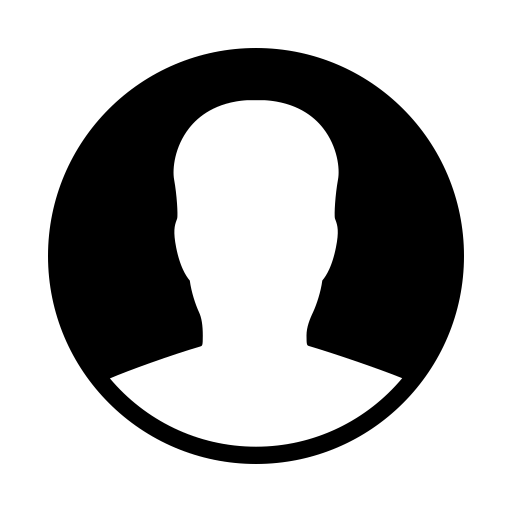
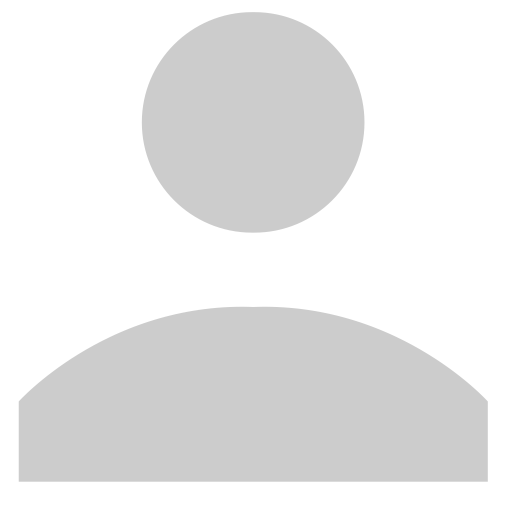
[ADD] upload image feature

diff --git a/client/src/pages/user/Profile.jsx b/client/src/pages/user/Profile.jsx
@@ -1,6 +1,8 @@
 import React, { useState } from "react";
-import HeaderImage from "../../images/header_bg_1.jpg";
-import UserProfileImage from "../../images/user_profile.png";
+import ImageUploader from "../../components/ImageUploadCustom";
+import CertDefaultImage from "../../images/cert-frame.png";
+import UserDefaultImage from "../../images/user_profile.png";
+
 
 const FormField = ({ id, label, placeholder, value, onChange }) => (
     <li className="py-3 flex justify-between items-center gap-10">
@@ -10,6 +12,8 @@ const FormField = ({ id, label, placeholder, value, onChange }) => (
 );
 
 const Profile = () => {
+    const [selectedPhoto, setSelectedPhoto] = useState(null);
+    const [urlImages, setUrlImages] = useState([]);
     const [formState, setFormState] = useState({
         fullname: '',
         gender: '',
@@ -27,39 +31,37 @@ const Profile = () => {
     }
     function handleSubmit(e) {
         e.preventDefault();
-        console.log(formState);
+        console.log(formState, urlImages, selectedPhoto);
+        console.log("selectedPhoto", selectedPhoto)
     }
     return (
         <section className="p-10 rounded-2xl bg-white container text-black">
             <form onSubmit={(e) => handleSubmit(e)}>
                 <h1 className="text-2xl py-10 text-black m-auto">MY PROFILE</h1>
                 <div className="flex justify-around">
-                    <ul>
+                    <div>
                         <FormField id="fullname" label="Fullname:" placeholder="Fullname" value={formState.fullname} onChange={handleChange} />
                         <FormField id="gender" label="Gender:" placeholder="Gender" value={formState.gender} onChange={handleChange} />
                         <FormField id="age" label="Age" placeholder="Age" value={formState.age} onChange={handleChange} />
                         <FormField id="experience" label="Year of Experiences" placeholder="Year of Experiences" value={formState.experience} onChange={handleChange} />
                         <FormField id="participant" label="Number of participants" placeholder="Number of participants" value={formState.participant} onChange={handleChange} />
                         <FormField id="price" label="Price" placeholder="Price" value={formState.price} onChange={handleChange} />
-                    </ul>
-                    <div className="relative ">
-                        <label title="Click to upload" htmlFor="triggerInput">
-                            <div className="w-max relative ">
-                                <img className="cursor-pointer rounded-full w-56 h-56 before:bg-gray-100  before:absolute before:inset-0  before:border-dashed  before:duration-300 hover:before:scale-105  active:before:scale-95"
-                                    src={UserProfileImage}
-                                    alt="file upload icon" />
-                            </div>
-                        </label>
-                        <input className="hidden" type="file" name="triggerInput" id="triggerInput" />
+                    </div>
+                    <ImageUploader onUrlImages={setSelectedPhoto} defaultImage={UserDefaultImage} />
+                </div>
+                <div className="my-10">
+                    <h2 className="text-black flex justify-center py-5 ">Certificate</h2>
+                    <div className="overflow-auto flex justify-evenly gap-5">
+                        {Array(3).fill(
+                            <ImageUploader onUrlImages={setUrlImages} defaultImage={CertDefaultImage} />
+                        )}
                     </div>
                 </div>
-
                 <div className="w-1/2 flex justify-evenly m-auto">
                     <button type="submit" className="rounded-lg px-12 py-4 bg-blue-400 hover:bg-blue-500 text-white">Save </button>
                     <button type="reset" className="rounded-lg px-12 py-4 bg-gray-400 hover:bg-gray-500 text-white">Cancel</button>
                 </div>
             </form>
-
         </section>
     );
 };

diff --git a/client/src/components/ImageUploadCustom.jsx b/client/src/components/ImageUploadCustom.jsx
@@ -1,0 +1,50 @@
+import React, { useRef, useState, useEffect } from 'react';
+
+const ImageUploader = ({ defaultImage, onUrlImages }) => {
+    const inputRef = useRef();
+    const [selectedImages, setSelectedImages] = useState([]);
+
+    useEffect(() => {
+        onUrlImages(selectedImages);
+    }, [selectedImages, onUrlImages]);
+
+    function handleImageChange(e) {
+        if (e.target.files) {
+            setSelectedImages([...e.target.files]);
+        }
+    }
+
+    function handleRemoveImage() {
+        setSelectedImages([]);
+        if (inputRef.current) {
+            inputRef.current.value = "";
+        }
+    }
+
+    const imageSource = selectedImages.length > 0 ? URL.createObjectURL(selectedImages[0]) : defaultImage;
+
+    return (
+        <div className='flex flex-col'>
+            <div className="relative ">
+                <div className="w-max relative">
+                    <img className="cursor-pointer border border-gray-400 w-56 h-56 before:bg-gray-100 before:absolute before:inset-0 before:border-dashed before:duration-300 hover:before:scale-105 active:before:scale-95"
+                        alt="file upload icon"
+                        src={imageSource}
+                    />
+                </div>
+                <input
+                    ref={inputRef}
+                    className="bg-red-100 absolute inset-0 opacity-0 cursor-pointer"
+                    type="file"
+                    multiple
+                    onChange={handleImageChange}
+                />
+            </div>
+            {selectedImages.length > 0 &&
+                <button className="bg-red-500 py-1 my-2 rounded-lg" onClick={handleRemoveImage}>Remove</button>
+            }
+        </div>
+    );
+}
+
+export default ImageUploader;

diff --git a/client/src/components/DropdownCustom.jsx b/client/src/components/DropdownCustom.jsx
@@ -10,9 +10,7 @@ const DropdownCustom = ({
 }) => {
 
     const [isOpen, setIsOpen] = useState(false);
-    // const [itemSelected, setItemSelected] = useState([]);
     function handleSelectedItem(item) {
-        // setItemSelected(item);
         setIsOpen(false);
         onSelected(item);
     }
@@ -21,7 +19,7 @@ const DropdownCustom = ({
             <button onClick={() => setIsOpen(prev => !prev)} class="text-white bg-blue-700  font-medium rounded-lg text-sm px-5 py-2.5 text-center inline-flex items-center" type="button">
                 <span>{title}</span>
                 <svg class="w-2.5 h-2.5 ms-3" aria-hidden="true" xmlns="http://www.w3.org/2000/svg" fill="none" viewBox="0 0 10 6">
-                    <path stroke="currentColor" stroke-linecap="round" stroke-linejoin="round" stroke-width="2" d="m1 1 4 4 4-4" />
+                    <path stroke="currentColor" strokeLinecap="round" strokeLinejoin="round" strokeWidth="2" d="m1 1 4 4 4-4" />
                 </svg>
             </button>
 
